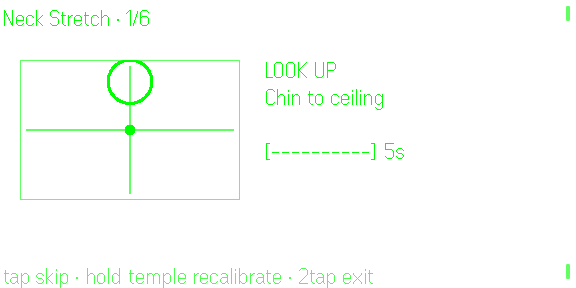
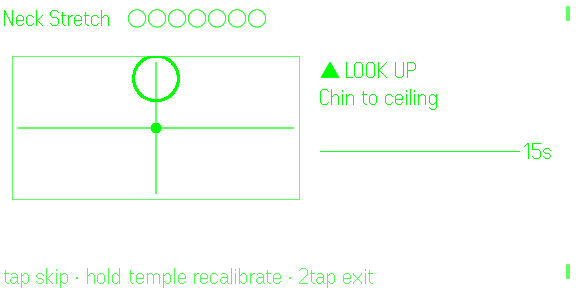
Refresh README screenshots for new layout, add JA shot
Generated with [Devin](https://devin.ai)

diff --git a/README.md b/README.md
@@ -8,9 +8,9 @@ finisher (the highest-evidence drill for forward-head posture).
 English & Japanese UI — Japanese is rasterized through the image
 pipeline because the firmware font has no CJK glyphs.
 
-| Intro | Exercise |
-|---|---|
-| ![intro](docs/screenshot-intro.png) | ![exercise](docs/screenshot-exercise.png) |
+| EN intro | EN exercise | JA exercise |
+|---|---|---|
+| ![intro](docs/screenshot-intro.png) | ![exercise](docs/screenshot-exercise.png) | ![exercise-ja](docs/screenshot-exercise-ja.png) |
 
 Rendered on the Even Hub simulator (no hardware required for layout/logic).
 
